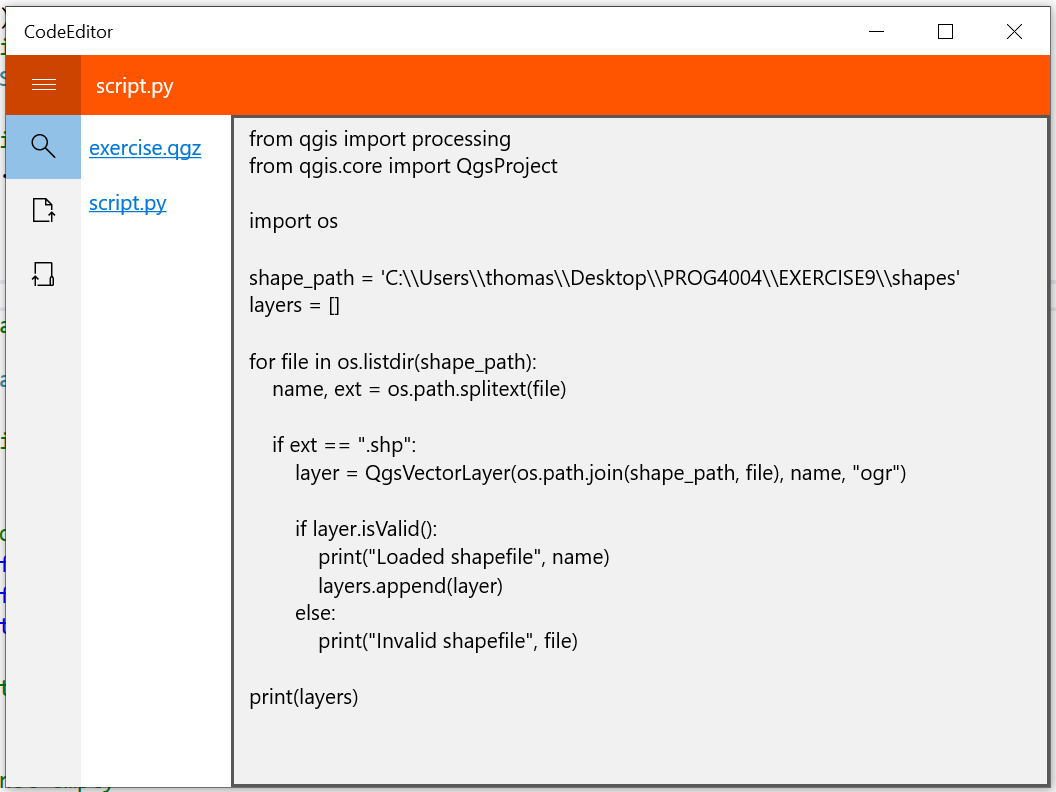
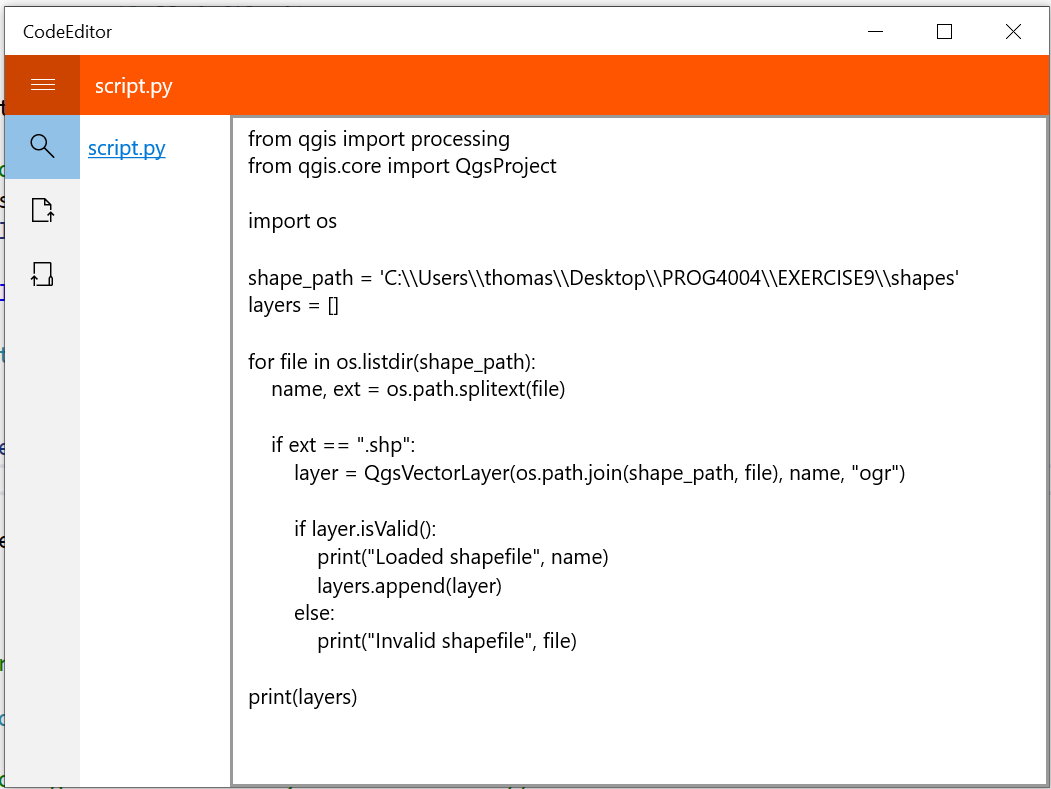
Added toggleable selection explorer + updated gui.png

diff --git a/CodeEditor/MainPage.xaml b/CodeEditor/MainPage.xaml
@@ -11,6 +11,7 @@
     <Page.Resources>
         <x:Double x:Key="NavFontSize">16</x:Double>
         <x:String x:Key="IconFontFamily">Segoe MDL2 Assets</x:String>
+        <x:String x:Key="EditorBackgroundColor">White</x:String>
 
         <x:Double x:Key="NavCloseWidth">50</x:Double>
         <x:Double x:Key="NavOpenWidth">200</x:Double>
@@ -35,9 +36,9 @@
 
         <SplitView Name="MySplitView" Grid.Row="1" DisplayMode="CompactOverlay" OpenPaneLength="{ StaticResource NavOpenWidth }" CompactPaneLength="{ StaticResource NavCloseWidth }" HorizontalAlignment="Stretch">
             <SplitView.Pane>
-                <ListBox SelectionMode="Single" Name="HamburgerMenu" SelectionChanged="HamburgerMenu_SelectionChanged">
-                    
-                    <ListBoxItem Name="Explorer">
+                <ListBox SelectionMode="Multiple" Name="HamburgerMenu" SelectionChanged="HamburgerMenu_SelectionChanged">
+
+                    <ListBoxItem Name="Explorer" IsSelected="True">
                         <StackPanel Orientation="Horizontal">
                             <TextBlock FontFamily="{ StaticResource IconFontFamily }" FontSize="{ StaticResource NavFontSize }" Width="{ StaticResource NavCloseWidth }"  Margin="{ StaticResource IconMargin }" TextAlignment="Center" Text="&#xE71E;" />
                             <TextBlock Text="Explorer" FontSize="{ StaticResource NavFontSize }" Margin="{ StaticResource HamburgerOptionMargin }" />
@@ -64,12 +65,18 @@
             <SplitView.Content>
                 <Grid>
                     <Grid.ColumnDefinitions>
-                        <ColumnDefinition Width="Auto" MinWidth="100" MaxWidth="150" />
+                        <ColumnDefinition Width="Auto" MaxWidth="150" />
                         <ColumnDefinition Width="*" />
                     </Grid.ColumnDefinitions>
-                    <Grid x:Name="FileSelection" Grid.Column="0" />
-                    <Grid Grid.Column="1" Background="#dddddd">
-                        <TextBox Name="Editor" PlaceholderText="Select a file to begin editing!" AcceptsReturn="True" />
+                    <Grid x:Name="FileSelectionExplorer" Grid.Column="0" />
+                    <Grid Grid.Column="1">
+                        <TextBox Name="Editor" PlaceholderText="Select a file to begin editing!" AcceptsReturn="True">
+                            <TextBox.Resources>
+                                <SolidColorBrush x:Key="TextControlBackground" Color="{ StaticResource EditorBackgroundColor }" />
+                                <SolidColorBrush x:Key="TextControlBackgroundFocused" Color="{ StaticResource EditorBackgroundColor }" />
+                                <SolidColorBrush x:Key="TextControlBackgroundPointerOver" Color="{ StaticResource EditorBackgroundColor }" />
+                            </TextBox.Resources>
+                        </TextBox>
                     </Grid>
                 </Grid>
             </SplitView.Content>

diff --git a/CodeEditor/MainPage.xaml.cs b/CodeEditor/MainPage.xaml.cs
@@ -30,8 +30,33 @@ namespace CodeEditor {
             MySplitView.IsPaneOpen = !MySplitView.IsPaneOpen;
         }
 
+        /** Toggles the FileSelectionExplorer */
+        private void ToggleFileSelectionExplorer() {
+            // Ensure the explorer is active (not loading the application)
+            if (FileSelectionExplorer != null) {
+
+                // Set visibility based on Explorer (search hamburger icon) being selected
+                FileSelectionExplorer.Visibility = Explorer.IsSelected ? Visibility.Visible : Visibility.Collapsed;
+
+                // Check if the FileSelectionExplorer is visible and has children
+                if (FileSelectionExplorer.Visibility == Visibility.Visible && FileSelectionExplorer.Children.Count > 0) {
+
+                    // Set panels minimum width (looks nicer)
+                    FileSelectionExplorer.MinWidth = 100;
+
+                // SelectionExplorer is not visible or does not have children
+                } else {
+                    // Set panels minimum width (to allow collapse)
+                    FileSelectionExplorer.MinWidth = 0;
+                }
+            }
+        }
+
         /** Hamburger menu item has changed! */
         private async void HamburgerMenu_SelectionChanged(object sender, SelectionChangedEventArgs e) {
+            
+            // Toggle FileSelectionExplorer
+            ToggleFileSelectionExplorer();
 
             // User would like to open a single file
             if (OpenFile.IsSelected) {
@@ -41,6 +66,8 @@ namespace CodeEditor {
                     // Update UI after selection
                     UpdateUI(new StorageFile[] { file });
                 }
+
+                OpenFile.IsSelected = false;
 
             // User would like to open an entire folder
             } else if (OpenDir.IsSelected) {
@@ -53,6 +80,8 @@ namespace CodeEditor {
                     // Update UI with list of files
                     UpdateUI(files.ToArray());
                 }
+
+                OpenDir.IsSelected = false;
             }
         }
 
@@ -96,8 +125,8 @@ namespace CodeEditor {
                         Grid.SetRow(btn, i);
 
                         // Add hyperlink to grid
-                        FileSelection.RowDefinitions.Add(row);
-                        FileSelection.Children.Add(btn);
+                        FileSelectionExplorer.RowDefinitions.Add(row);
+                        FileSelectionExplorer.Children.Add(btn);
                     }
                 } else {
                     // List is empty, alert user
@@ -159,10 +188,11 @@ namespace CodeEditor {
             return folder;
         }
 
+        /** Reset the UI's default values (empty, as if no file or folder was selected yet) */
         private void ResetUI() {
             Title.Text = "undefined";
             Editor.Text = "";
-            FileSelection.Children.Clear();
+            FileSelectionExplorer.Children.Clear();
         }
     }
 }
